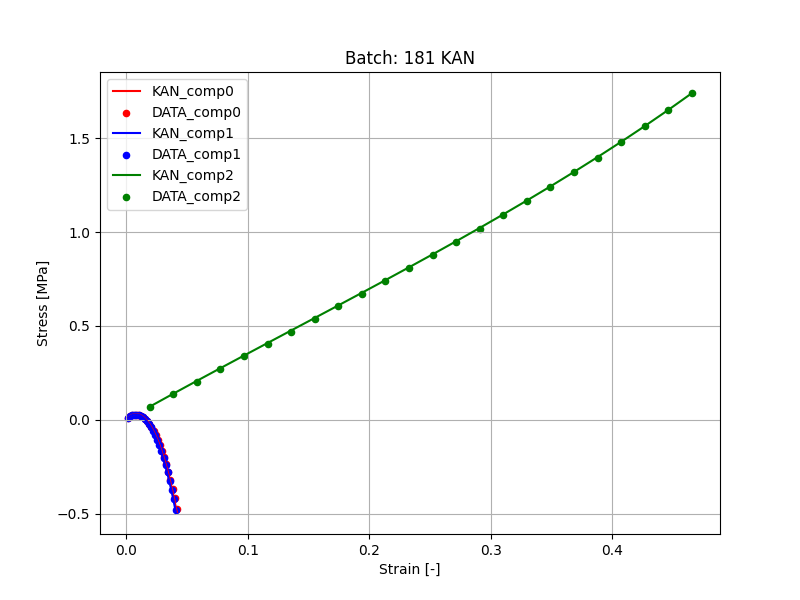
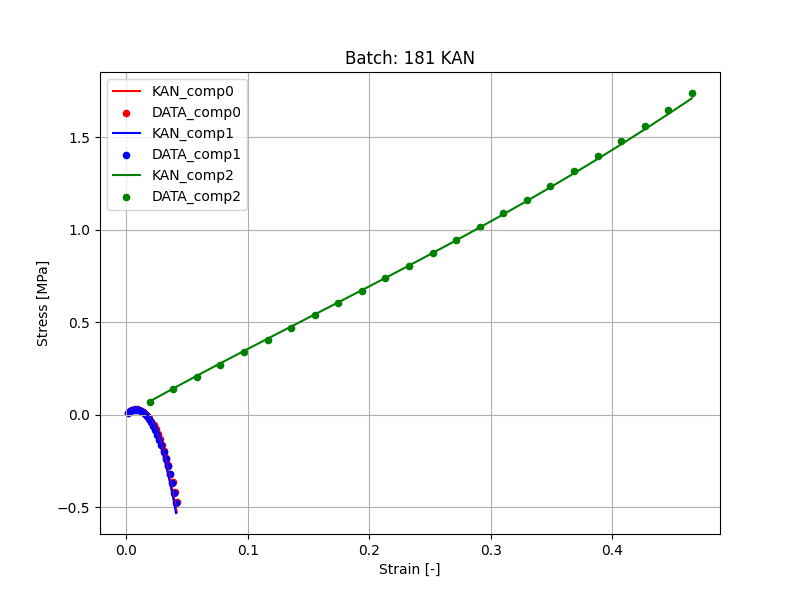
t

diff --git a/data_sets/KAN_ann.py b/data_sets/KAN_ann.py
@@ -26,7 +26,7 @@ from sklearn.model_selection import train_test_split
 INPUT DATASET:
 """
 n_epochs = 500
-learning_rate = 0.025
+learning_rate = 0.05
 number_of_steps = 25
 ADD_NOISE = False
 database = cl_loader.CustomDataset("neo_hookean_hyperelastic_law/raw_data", number_of_steps, None, ADD_NOISE)
@@ -75,11 +75,11 @@ class KANStressPredictor(nn.Module):
     def __init__(self):
         super(KANStressPredictor, self).__init__()
 
-        self.order_stretches = 2  # Number of orders (can be set to any value)
+        self.order_stretches = 1  # Number of orders (can be set to any value)
         self.k = 3  # Degree of splines
         self.grid = 3  # Number of knots
 
-        self.input_size = 3 * self.order_stretches  # Total inputs: 2 * reg_eigenvalues + 1 * (J-1) for each order
+        self.input_size = 2 * self.order_stretches + 1  # Total inputs: 2 * reg_eigenvalues for each order + 1 * log(J)
 
         # KAN framework layers
         self.KAN_W = KAN.MultKAN(
@@ -88,11 +88,13 @@ class KANStressPredictor(nn.Module):
             k=self.k
         )
 
-        self.ki = nn.ParameterList([ # order of the log, 2 params per mode: one per lambdas and another for J
-            nn.Parameter(torch.tensor(random.random())) for p in range(2 * self.order_stretches)
-        ])
-        # self.ki = [1.0, 2.0, 2.0, 0.0]
 
+        self.ki = nn.ParameterList([ # order of the log, 2 params per mode: one per lambdas and another for J
+            # nn.Parameter(torch.tensor(random.random())) for p in range(2 * self.order_stretches)
+            nn.Parameter(torch.tensor(float(p + 1) + random.random())) for p in range(self.order_stretches)
+        ])
+        # The parameter multiplying the log(J) is initially set to 2.0
+        self.ki.append(nn.Parameter(torch.tensor(2.0)))
 
     def CalculateW(self, strain):
         batches = strain.shape[0]
@@ -109,7 +111,8 @@ class KANStressPredictor(nn.Module):
         C = torch.zeros_like(E)
         C = 2.0 * E + torch.eye(2)
 
-        J = torch.linalg.det(C) ** 0.5
+        J = torch.linalg.det(C) ** 0.5  # Determinant of C (Jacobian)
+        log_J = torch.log(J)  # Logarithm of J
 
         square_eigenvalues = torch.linalg.eigvalsh(C)  # Eigenvalues: batch x steps x 2
         eigenvalues = torch.sqrt(square_eigenvalues)
@@ -123,47 +126,28 @@ class KANStressPredictor(nn.Module):
         kan_inputs = []  # List to store inputs for each order
 
         for index in range(self.order_stretches):
-            # Compute reg_eigenvalues**order and (J-1)**order
-            reg_eigenvalues_order = self.ki[2*index]     * torch.log(reg_eigenvalues)
-            J_minus_1_order       = self.ki[2*index + 1] * torch.log(J)  # Avoid log(0)
+            # Compute reg_eigenvalues**order
+            reg_eigenvalues_order = reg_eigenvalues**self.ki[index]
 
-            # Concatenate reg_eigenvalues_order and J_minus_1_order
-            J_minus_1_order = J_minus_1_order.unsqueeze(-1)  # Add an extra dimension
-            kan_input_order = torch.cat((reg_eigenvalues_order, J_minus_1_order), dim=-1)  # Shape: (batches, steps, 3)
-            """
-            example
-                Original reg_eigenvalues_order:
-                tensor([[[1., 2.],
-                        [3., 4.]]])
-                Shape: torch.Size([1, 2, 2])
+            # Append the pair of stretches for this order
+            kan_inputs.append(reg_eigenvalues_order)
 
-                Original J_minus_1_order:
-                tensor([[5., 6.]])
-                Shape: torch.Size([1, 2])
+        # Append log(J) multiplied by the last ki factor
+        log_J_scaled = log_J * self.ki[-1]  # Multiply log(J) by the last ki factor
+        log_J_expanded = log_J_scaled.unsqueeze(-1)  # Add an extra dimension for concatenation
+        kan_inputs.append(log_J_expanded)
 
-                J_minus_1_order after unsqueeze:
-                tensor([[[5.],
-                        [6.]]])
-                Shape: torch.Size([1, 2, 1])
-
-                Concatenated kan_input_order:
-                tensor([[[1., 2., 5.],
-                        [3., 4., 6.]]])
-                Shape: torch.Size([1, 2, 3])
-            """
-            kan_inputs.append(kan_input_order)
-
-        # Concatenate all orders along the last dimension
-        KAN_input = torch.cat(kan_inputs, dim=-1)  # Shape: (batches, steps, 3 * self.order_stretches)
+        # Concatenate all inputs along the last dimension
+        KAN_input = torch.cat(kan_inputs, dim=-1)  # Shape: (batches, steps, 2 * self.order_stretches + 1)
 
         # Flatten the input for KAN (KAN cannot read 3D tensors)
-        flat_KAN_input = KAN_input.view(-1, self.input_size)  # Shape: (batch x steps, 3 * self.order_stretches)
+        flat_KAN_input = KAN_input.view(-1, self.input_size)  # Shape: (batch x steps, input_size)
 
         # Pass the input through the KAN layer
         W_flat = self.KAN_W(flat_KAN_input)  # Shape: (batch x steps, 1)
 
         # Reshape the output back to the original shape
-        W = torch.exp(W_flat.view(batches, steps, -1))  # Shape: (batches, steps, 1)
+        W = W_flat.view(batches, steps, -1)  # Shape: (batches, steps, 1)
 
         return W
 
@@ -190,7 +174,6 @@ class KANStressPredictor(nn.Module):
             grad_outputs=torch.ones_like(W0),
             create_graph=True
         )[0]
-        # zeros = torch.zeros_like(strain).requires_grad_(False)
 
         return grad - grad_at_zero
 
@@ -199,12 +182,9 @@ class KANStressPredictor(nn.Module):
 # Initialize model, optimizer, and loss function
 model = KANStressPredictor()
 
-# model(torch.tensor([[[0.0, 0.0, 0.0],
-#                      [1.0, 1.0, 1.0]]]))
-# model.KAN_W.plot(folder="./KAN_predictions")
-# a
-
 print("\nNull strain KAN prediction initial CHECK: ", model(torch.tensor([[[0.0, 0.0, 0.0]]]))) # for the order 1
+print("\n")
+
 
 # optimizer = optim.LBFGS(model.parameters(), lr=learning_rate, max_iter=20, history_size=10)
 optimizer = optim.LBFGS(
@@ -248,10 +228,10 @@ print("\nTraining finished.\n")
 # for name, param in model.named_parameters():
 #     print(name, param.data)
 
-null_prediction_ANN = model(torch.tensor([[[0.0, 0.0, 0.0]]]))
-print("\nNull strain post training KAN prediction: ", 1.0e6*null_prediction_ANN)
+# null_prediction_ANN = model(torch.tensor([[[0.0, 0.0, 0.0]]]))
+# print("\nNull strain post training KAN prediction: ", 1.0e6*null_prediction_ANN)
 
-torch.save(model.state_dict(), "KAN_model_weights.pth")
+# torch.save(model.state_dict(), "KAN_model_weights.pth")
 
 
 # Define the GetColor method
